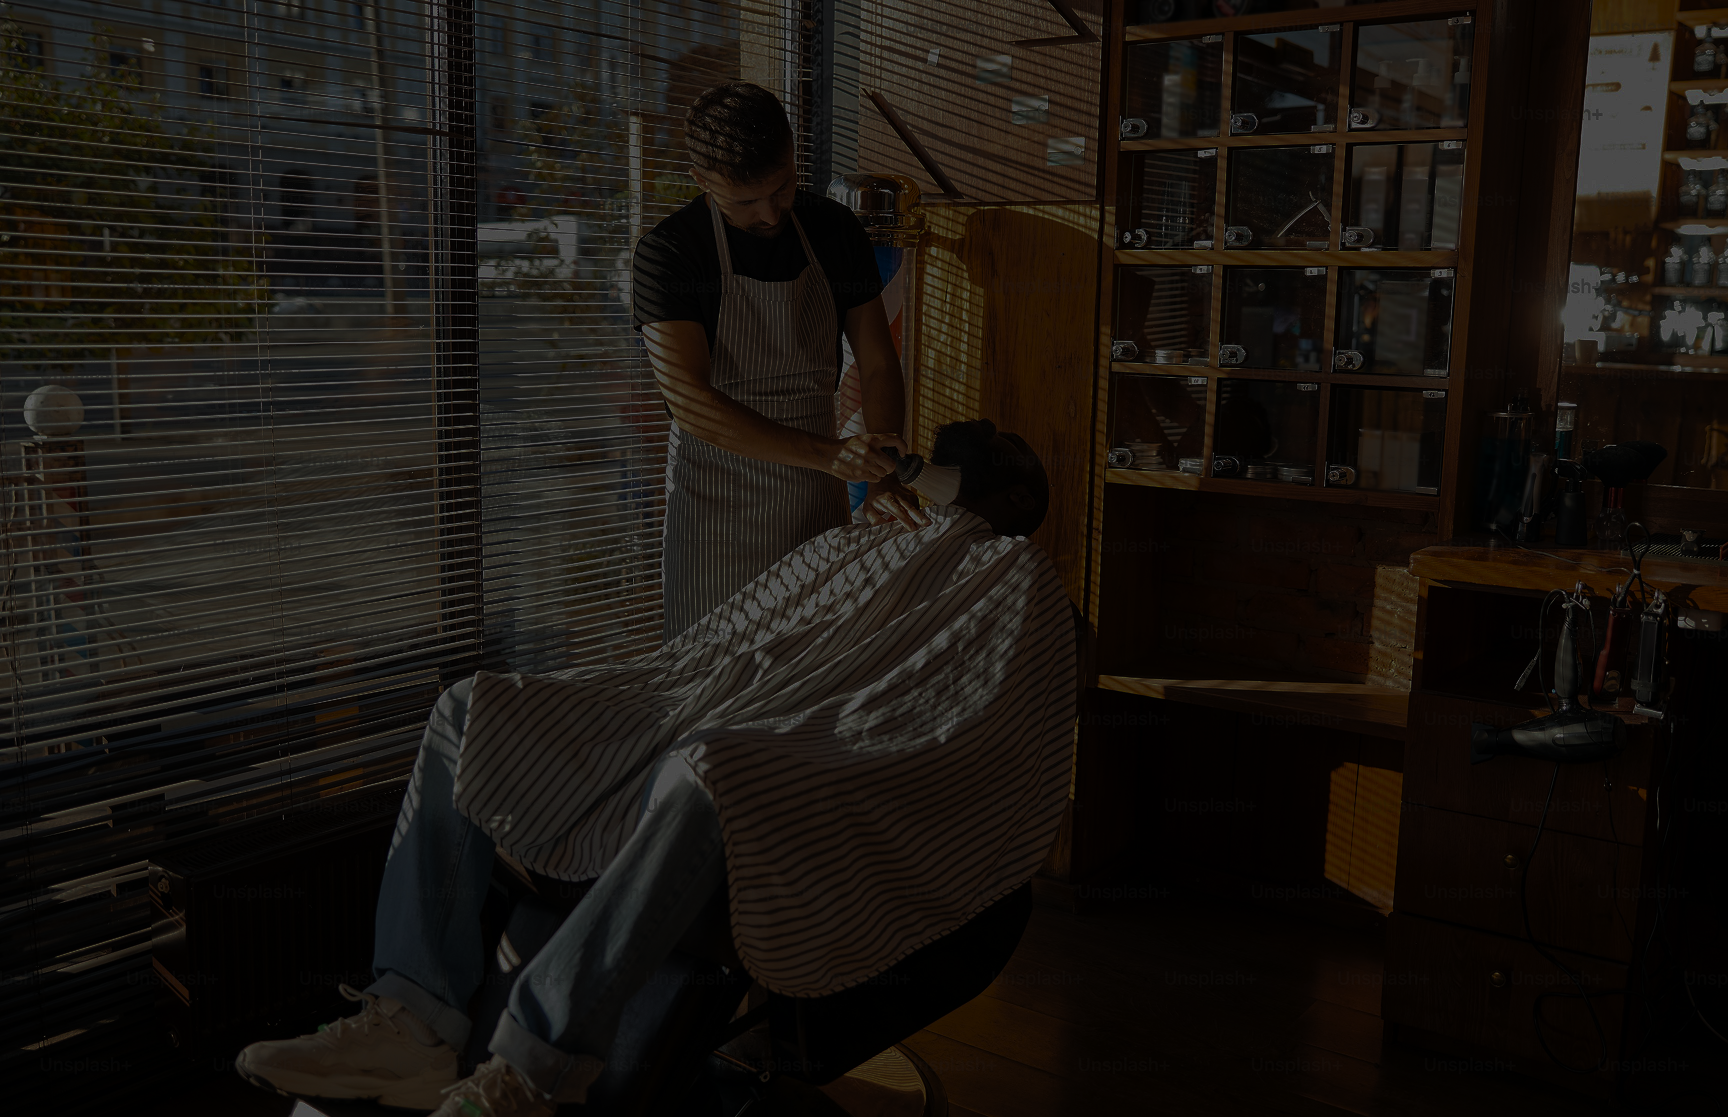
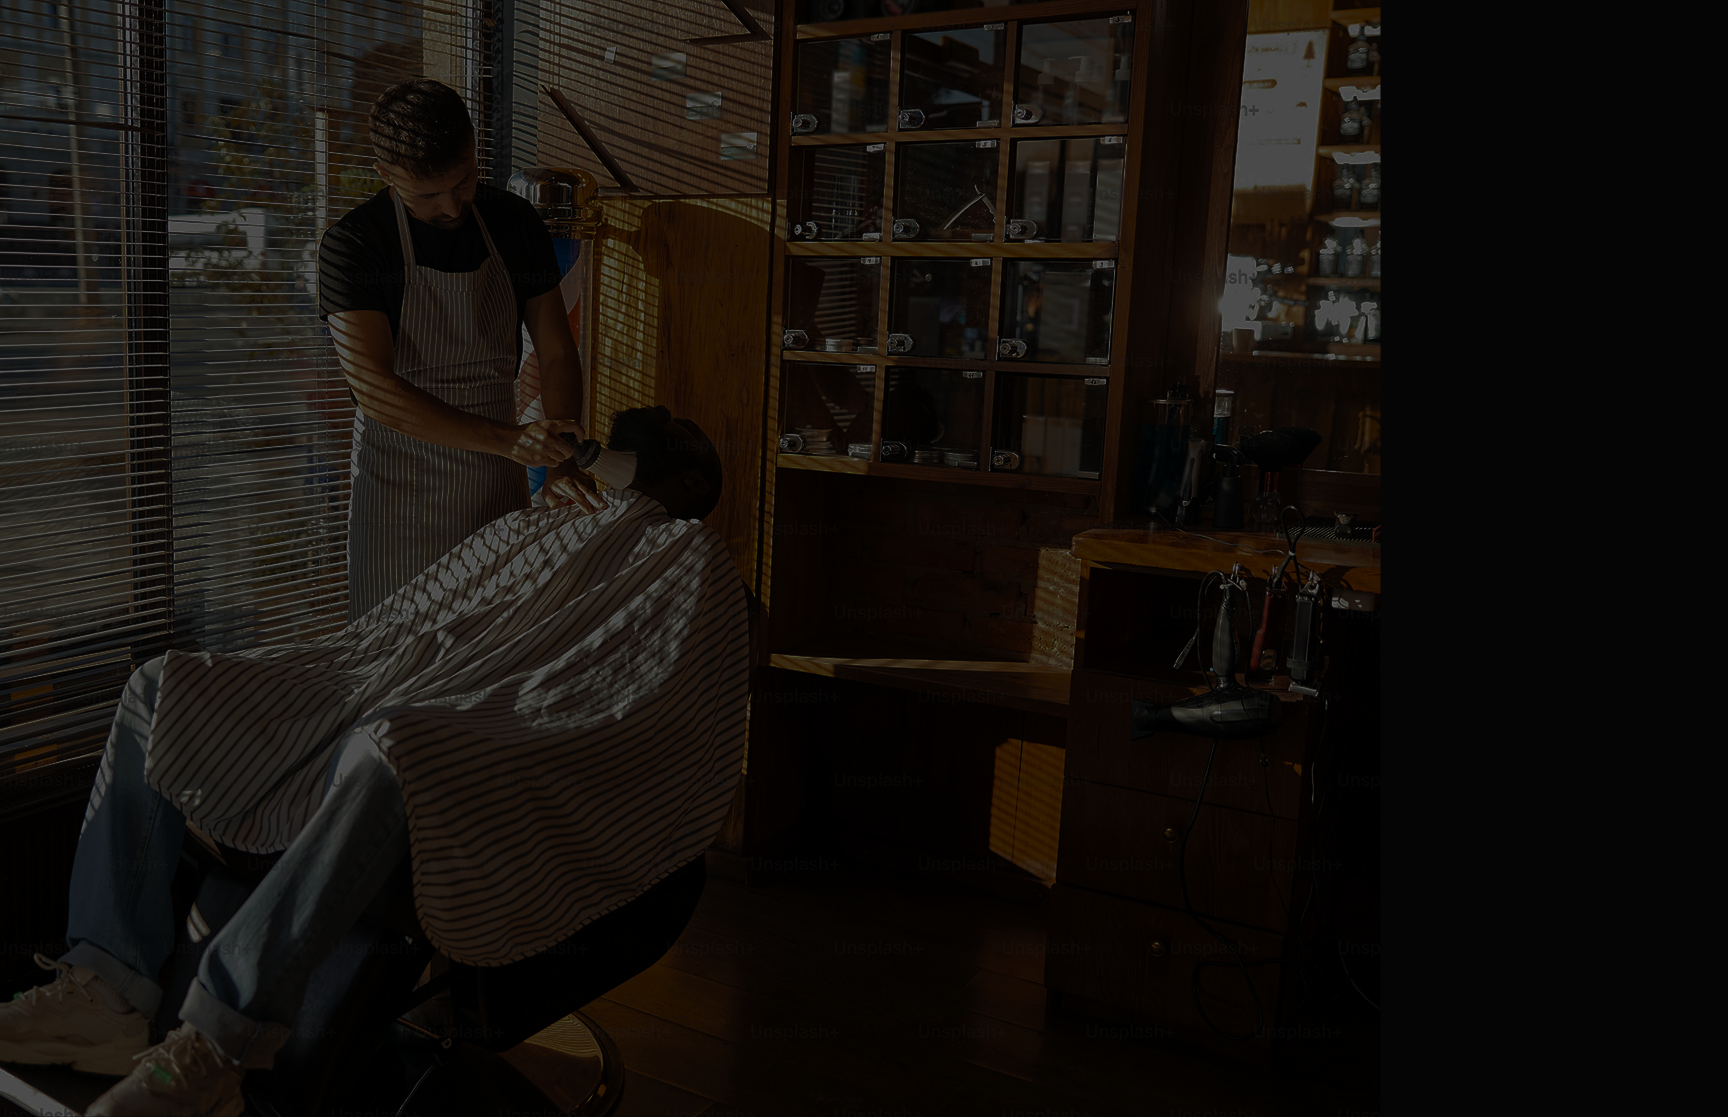
about section

diff --git a/index.html b/index.html
@@ -164,12 +164,14 @@
             <div class="services-card">
                 <!-- DOUBLE SVG -->
                 <div class="svgs">
-                    <svg class="razor" width="84" height="110" viewBox="0 0 84 110" fill="none" xmlns="http://www.w3.org/2000/svg">
+                    <svg class="razor" width="84" height="110" viewBox="0 0 84 110" fill="none"
+                        xmlns="http://www.w3.org/2000/svg">
                         <path
                             d="M83.177 67.2795C81.7852 70.2918 79.7781 71.7866 77.1174 73.6787C73.5283 72.2361 70.7646 70.2734 67.7528 67.9071C67.2629 67.5275 66.773 67.1479 66.2683 66.7568C64.7068 65.5452 63.1499 64.3279 61.593 63.1105C60.5662 62.3126 59.5391 61.515 58.5117 60.7178C56.5034 59.159 54.5009 57.5932 52.5017 56.0228C50.6449 54.5672 48.7719 53.1389 46.8775 51.7328C46.4532 51.4129 46.0288 51.093 45.5917 50.7635C44.4525 49.906 43.3064 49.0577 42.1598 48.2101C40.6103 46.6768 40.6103 46.6768 40.332 44.9996C40.6642 43.5604 40.6642 43.5604 41.7843 42.2951C41.3103 41.9518 40.8362 41.6085 40.3478 41.2547C38.6159 39.9229 37.0655 38.5276 35.4965 37.0086C34.9465 36.4778 34.3965 35.947 33.8298 35.4001C33.2645 34.8511 32.6992 34.3021 32.1168 33.7365C31.25 32.8989 31.25 32.8989 30.3657 32.0443C28.9451 30.671 27.5261 29.296 26.1085 27.9195C31.8709 54.5961 40.675 82.9593 57.9131 104.538C57.1313 106.38 56.6944 107.129 54.8484 107.982C53.959 108.223 53.959 108.223 53.0517 108.47C52.461 108.637 51.8704 108.805 51.2618 108.978C47.783 109.76 44.6109 109.433 41.3806 107.935C39.7568 105.831 39.7568 105.831 38.5118 103.155C38.2807 102.67 38.0497 102.184 37.8116 101.684C37.0874 100.14 36.397 98.5851 35.7121 97.0238C35.4955 96.5432 35.2789 96.0625 35.0558 95.5673C11.251 42.638 11.251 42.638 11.9978 20.2738C11.9549 16.0551 11.0233 14.3088 8.04547 11.3387C6.748 10.1942 5.44118 9.06021 4.12313 7.93955C2.54022 6.3172 1.30374 4.79133 1.07512e-05 2.92117C0.258308 1.9572 0.516605 0.993217 0.782729 2.72989e-05C4.56121 1.43665 7.40241 3.21912 10.5097 5.78615C11.1224 6.28102 11.1224 6.28102 11.7476 6.7859C12.7416 7.58989 13.7302 8.40068 14.7175 9.21288C15.2565 8.82457 15.7956 8.43626 16.3509 8.03619C18.4154 7.07284 18.4154 7.07284 20.2165 7.64207C21.8637 8.77952 21.8637 8.77952 22.43 10.4295C22.518 11.0672 22.6059 11.7049 22.6965 12.3619C23.6251 16.7408 25.4285 18.4954 28.9312 21.1085C29.7271 21.7386 29.7271 21.7386 30.539 22.3814C32.2875 23.7593 34.055 25.1102 35.8235 26.4622C37.0514 27.4234 38.2778 28.3865 39.5028 29.3514C42.0928 31.3876 44.6902 33.4137 47.2938 35.4324C53.4961 40.2476 59.6365 45.141 65.7786 50.0327C67.7296 51.5833 69.6856 53.1274 71.6426 54.6703C72.843 55.6209 74.0432 56.5715 75.2434 57.5222C75.7915 57.9522 76.3396 58.3821 76.9042 58.8251C83.3773 63.97 83.3773 63.97 83.177 67.2795ZM19.3198 18.2732C18.5983 18.0799 17.8768 17.8866 17.1335 17.6874C17.1802 18.4748 17.227 19.2623 17.2752 20.0735C17.8208 19.9614 18.3664 19.8493 18.9285 19.7338C19.0576 19.2518 19.1868 18.7698 19.3198 18.2732Z"
                             fill="#C05426" />
                     </svg>
-                    <svg class="hair-clipper" width="77" height="77" viewBox="0 0 77 77" fill="none" xmlns="http://www.w3.org/2000/svg">
+                    <svg class="hair-clipper" width="77" height="77" viewBox="0 0 77 77" fill="none"
+                        xmlns="http://www.w3.org/2000/svg">
                         <path
                             d="M60.9134 26.2568C61.0225 26.5715 61.0225 26.5715 61.1339 26.8925C61.1841 27.6102 61.1841 27.6102 60.7206 28.1985C60.4842 28.4059 60.2432 28.6082 59.9992 28.8065C59.8657 28.9211 59.7322 29.0357 59.5947 29.1538C59.1356 29.546 58.6711 29.9313 58.2065 30.3171C57.8676 30.6048 57.529 30.8929 57.1907 31.1813C56.1134 32.0972 55.0293 33.0048 53.9441 33.9113C53.3773 34.385 52.8111 34.8595 52.2448 35.3339C51.1405 36.2587 50.0356 37.1829 48.9305 38.1068C48.0328 38.8573 47.1353 39.6082 46.238 40.3592C46.1097 40.4665 45.9814 40.5739 45.8493 40.6845C45.5886 40.9026 45.3279 41.1208 45.0673 41.339C42.6328 43.3764 40.1977 45.4131 37.7623 47.4496C35.6727 49.1969 33.5835 50.945 31.4947 52.6934C29.0643 54.7278 26.6337 56.7619 24.2025 58.7954C23.9436 59.0119 23.6847 59.2285 23.4258 59.445C23.2985 59.5516 23.1711 59.6581 23.0399 59.7679C22.1421 60.5189 21.2445 61.2701 20.3469 62.0214C19.2553 62.9352 18.1634 63.8486 17.071 64.7615C16.5137 65.2273 15.9566 65.6932 15.3998 66.1597C14.7973 66.6644 14.1941 67.1683 13.5908 67.6721C13.4138 67.8206 13.2367 67.9691 13.0543 68.1221C12.8934 68.2562 12.7324 68.3904 12.5666 68.5287C12.4274 68.6451 12.2882 68.7615 12.1448 68.8815C11.7833 69.1611 11.7833 69.1611 11.2419 69.4317C9.72336 67.9132 8.20479 66.3946 6.64021 64.83C6.90636 64.2977 7.18998 63.9279 7.57069 63.4729C7.71098 63.3048 7.85126 63.1366 7.99579 62.9634C8.1511 62.7783 8.30641 62.5932 8.46644 62.4025C8.63221 62.2042 8.79794 62.0059 8.96363 61.8075C9.42003 61.2613 9.87711 60.7157 10.3343 60.1702C10.8269 59.5821 11.3189 58.9936 11.811 58.4051C12.7757 57.2516 13.7409 56.0986 14.7064 54.9458C15.4912 54.0087 16.2758 53.0714 17.0603 52.1339C17.1719 52.0006 17.2834 51.8673 17.3984 51.73C17.625 51.4592 17.8516 51.1884 18.0782 50.9176C20.2051 48.376 22.3327 45.835 24.4605 43.2941C26.2857 41.1145 28.1104 38.9344 29.9346 36.754C32.0523 34.2227 34.1705 31.6917 36.2892 29.1613C36.5152 28.8913 36.7413 28.6213 36.9674 28.3512C37.0786 28.2184 37.1899 28.0855 37.3045 27.9487C38.0877 27.0131 38.8707 26.0773 39.6536 25.1414C40.6085 24 41.5638 22.8589 42.5195 21.7183C43.0071 21.1364 43.4944 20.5544 43.9813 19.972C44.4274 19.4384 44.874 18.9052 45.3211 18.3723C45.5584 18.0891 45.7952 17.8054 46.032 17.5218C48.2202 14.9169 48.2202 14.9169 48.9402 14.8302C54.4922 16.5825 59.0803 20.6478 60.9134 26.2568Z"
                             fill="#C05426" />
@@ -198,15 +200,35 @@
     </section>
 
     <!-- ABOUT US -->
-    <section id="about">
-        <div class="about-wrapper">
-            <div class="about-contente">
+    <div class="about-wrapper">
+        <svg class="about-shadow" width="1064" height="1317" viewBox="0 0 1064 1317" fill="none"
+            xmlns="http://www.w3.org/2000/svg">
+            <g filter="url(#filter0_f_101_74)">
+                <rect x="100" y="100" width="864" height="1117" fill="black" fill-opacity="0.8" />
+            </g>
+            <defs>
+                <filter id="filter0_f_101_74" x="0" y="0" width="1064" height="1317" filterUnits="userSpaceOnUse"
+                    color-interpolation-filters="sRGB">
+                    <feFlood flood-opacity="0" result="BackgroundImageFix" />
+                    <feBlend mode="normal" in="SourceGraphic" in2="BackgroundImageFix" result="shape" />
+                    <feGaussianBlur stdDeviation="0" result="effect1_foregroundBlur_101_74" />
+                </filter>
+            </defs>
+        </svg>
+
+        <section id="about">
+            <div class="about-content">
                 <div class="about-title">
                     <h1>SOBRE NÓS</h1>
                     <p>Conheça um pouco da nossa história</p>
                 </div>
                 <div class="about-text">
-                    Lorem Ipsum is simply dummy text of the printing and typesetting industry. Lorem Ipsum has been the industry's standard dummy text ever since the 1500s.Lorem Ipsum is simply dummy text of the printing and typesetting industry. Lorem Ipsum has been the industry's standard dummy text ever since the 1500s.
+                    <p>
+                        Lorem Ipsum is simply dummy text of the printing and typesetting industry. Lorem Ipsum has been
+                        the industry's standard dummy text ever since the 1500s.Lorem Ipsum is simply dummy text of the
+                        printing and typesetting industry. Lorem Ipsum has been the industry's standard dummy text ever
+                        since the 1500s.
+                    </p>
                 </div>
                 <div class="about-stats">
                     <div class="stats">
@@ -223,6 +245,20 @@
                     </div>
                 </div>
             </div>
+        </section>
+    </div>
+
+    <section id="galery">
+        <div class="parent">
+            <div class="div1"> </div>
+            <div class="div2"> </div>
+            <div class="div3"> </div>
+            <div class="div4"> </div>
+            <div class="div5"> </div>
+            <div class="div6"> </div>
+            <div class="div7"> </div>
+            <div class="div8"> </div>
+            <div class="div9"> </div>
         </div>
     </section>
 </body>

diff --git a/assets/styles/style.css b/assets/styles/style.css
@@ -412,7 +412,140 @@ li > a:hover {
 #about {
     height: 100vh;
     width: 100%;
+    position: relative;
+    z-index: 1;
     display: flex;
-    align-items: center;
-    justify-content: center;
+    flex-direction: column;
+    align-items: end;
 }
+
+.about-wrapper {
+    min-height: 100vh;
+    background: url("../images/FotoSobre.png") center / cover no-repeat;
+    position: relative;
+}
+
+#about, 
+.about-wrapper {
+    overflow: hidden;
+}
+
+/* SOMBRA */
+
+.about-shadow {
+    position: absolute;
+    top: -11%;
+    right: -35%;
+    left: auto;
+    transform: translateX(-50%);
+    z-index: 0;
+    pointer-events: none; 
+}
+
+.about-content {
+    max-width: 720px;
+    display: flex;
+    flex-direction: column;
+    align-items: flex-end;
+    margin-right: 8rem;
+}
+
+.about-title {
+    margin-bottom: 160px;
+    margin-top: 86px;
+}
+
+.about-title h1 {
+    font-family: var(--primary-font);
+    font-style: normal;
+    font-weight: 700;
+    font-size: 60px;
+    line-height: 73px;
+    color: var(--secondary-color);
+    text-align: right;
+}
+
+.about-title p {
+    font-family: var(--secondary-font);
+    font-style: normal;
+    font-weight: 400;
+    font-size: 16px;
+    line-height: 19px;
+    color: rgba(228, 228, 228, 0.692);
+    text-align: right;
+}
+
+.about-text {
+    width: 24vw;
+    margin-bottom: 217px;
+}
+
+.about-text p {
+    font-family: var(--tertiary-font);
+    font-style: normal;
+    font-weight: 400;
+    font-size: 20px;
+    line-height: 23px;
+    color: rgba(228, 228, 228, 0.692);
+    text-align: right;
+}
+
+.about-stats {
+    display: flex;
+    gap: 77px;
+    flex-direction: row;
+    align-items: center;
+}
+
+.stats {
+    display: flex;
+    flex-direction: column;
+    align-items: flex-end;
+    flex: none;
+    order: 0;
+    flex-grow: 0;
+}
+
+.stats h3 {
+    font-family: var(--primary-font);
+    font-style: normal;
+    font-weight: 700;
+    font-size: 40px;
+    line-height: 49px;
+    text-align: right;
+    color: var(--secondary-color);
+}
+
+.stats p {
+    font-family: var(--secondary-font);
+    font-style: normal;
+    font-weight: 400;
+    font-size: 16px;
+    line-height: 19px;
+    text-align: right;
+    color: var(--secondary-color);
+}
+
+/* GALERIA */
+
+#galery {
+    min-height: 100vh;
+}
+
+.parent {
+display: grid;
+grid-template-columns: repeat(4, 1fr);
+grid-template-rows: 1fr repeat(3, 0) 1fr;
+grid-column-gap: 100px;
+grid-row-gap: 5px;
+}
+
+.div1 { grid-area: 1 / 1 / 2 / 2; }
+.div2 { grid-area: 1 / 2 / 2 / 3; }
+.div3 { grid-area: 1 / 3 / 2 / 4; }
+.div4 { grid-area: 1 / 4 / 2 / 5; }
+.div5 { grid-area: 5 / 1 / 6 / 2; }
+.div6 { grid-area: 5 / 2 / 6 / 3; }
+.div7 { grid-area: 5 / 3 / 6 / 4; }
+.div8 { grid-area: 5 / 3 / 6 / 4; }
+.div9 { grid-area: 5 / 4 / 6 / 5; }
